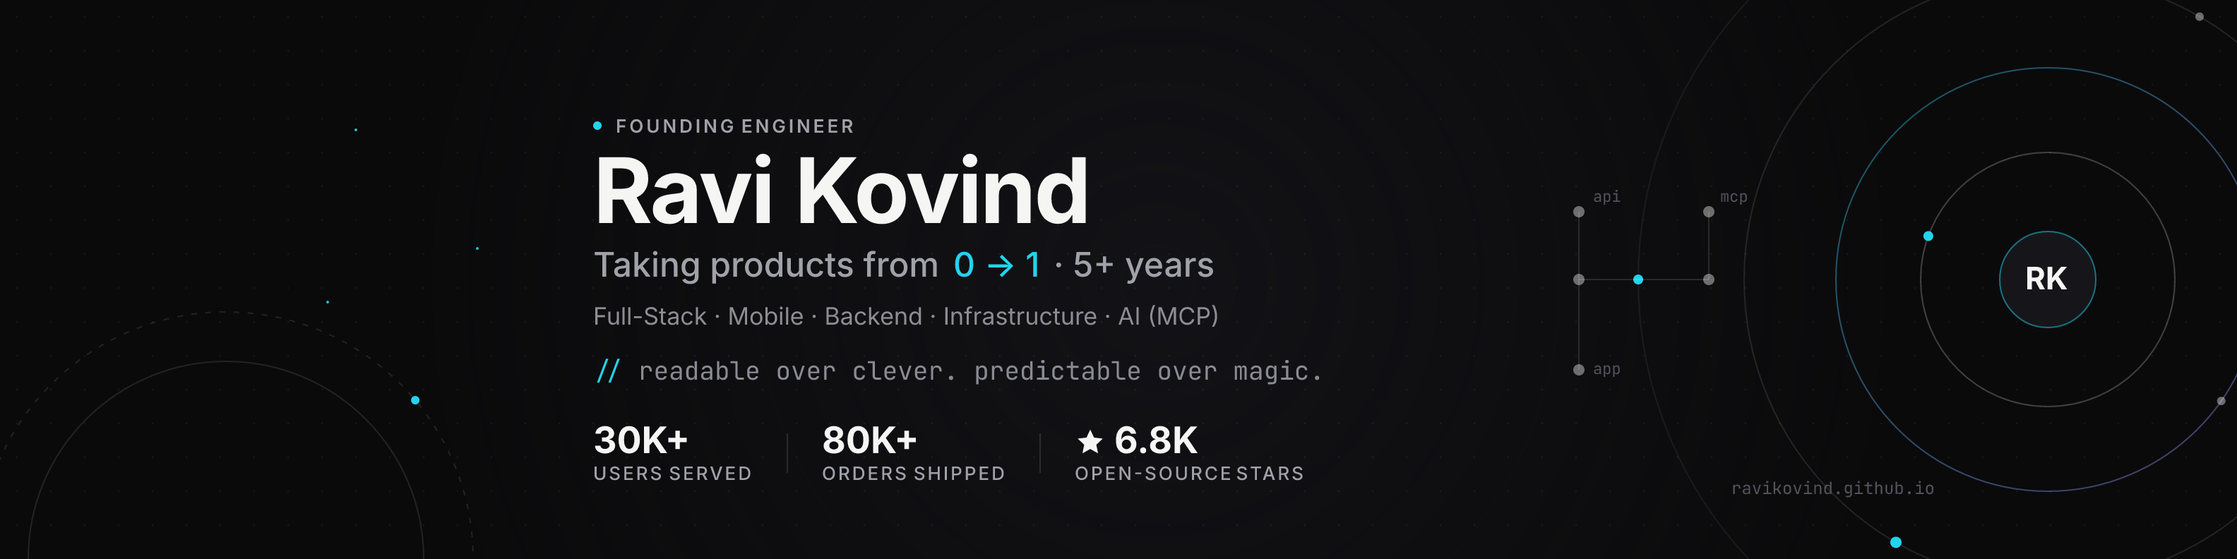
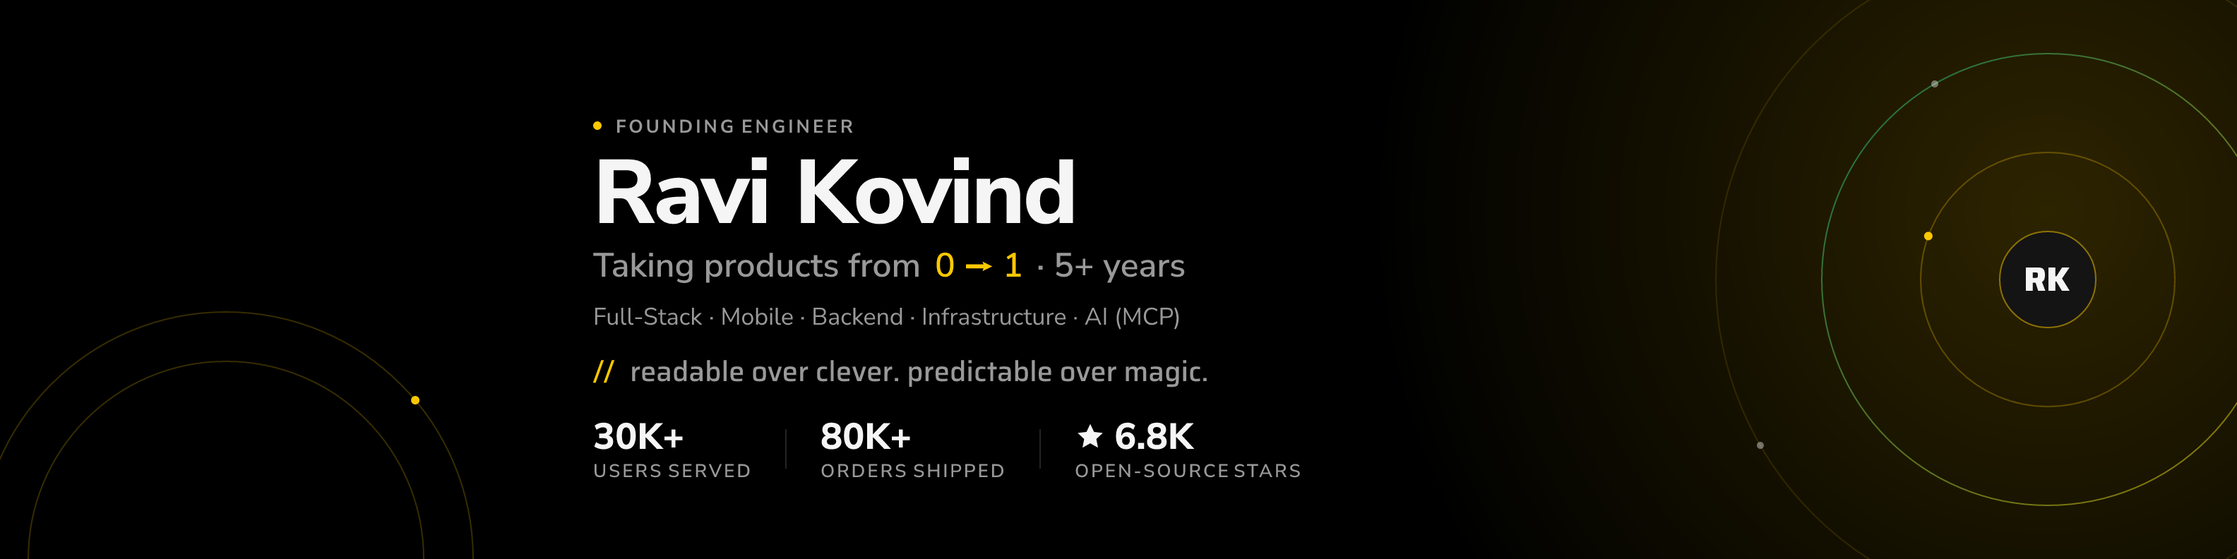
design(examples): ravikovind cover rev 2 — Nunito Sans + Saira, black + yellow
Update plan.md (revision 2) and regenerate: fonts Nunito Sans + Saira (mono
role); Open Notifier's pure-black look with the accent moved green -> yellow
(#FAC800), green kept only as the single gradient ring's start; removed the
unclear elements (node graph + labels, accent pixels, dot grid, footer tag,
dashed ring) and simplified the orbit. QA re-run with measured contrast and
text extents; build-notes.md updated.

diff --git a/examples/ravikovind/plan.md b/examples/ravikovind/plan.md
@@ -2,6 +2,8 @@
 
 > **For the executing agent:** Follow this plan top to bottom. Every decision about content, layout, colour and type is already made below. Do not invent new copy, stats, logos or claims. If something is ambiguous, pick the more minimal option.
 
+**Revision 2** — fonts changed to Nunito Sans + Saira; palette changed to the Open Notifier look (pure black, one accent) with the accent moved from green to yellow; unclear decorative elements removed (see §5.4).
+
 ---
 
 ## 1. Goal
@@ -12,7 +14,7 @@ Produce a clean, premium, developer-flavoured LinkedIn banner that tells a recru
 2. **What:** takes products from 0 → 1 across Full-Stack, Mobile, Backend, Infrastructure (and AI/MCP)
 3. **Why trust him:** proof numbers + engineering philosophy
 
-Tone: calm, confident, engineered. Not flashy, no stock "hacker" imagery, no neon matrix rain.
+Tone: calm, confident, engineered. Not flashy, no stock "hacker" imagery, no neon matrix rain. **Every element must have an obvious purpose** — if a viewer would ask "what is that?", it does not belong.
 
 ---
 
@@ -32,7 +34,7 @@ Tone: calm, confident, engineered. Not flashy, no stock "hacker" imagery, no neo
 | Core stack             | Flutter, Dart, Node.js, TypeScript, Python, Next.js, MongoDB, PostgreSQL, AWS, GCP, Docker |
 | AI work                | MCP client engine (MCPVave), Open Notifier (MCP push)                                      |
 | Handle / site          | ravikovind.github.io · @ravi_kovind                                                        |
-| Brand colour hint      | site theme colour is `#000000` (black), logo mark "RK"                                     |
+| Brand mark             | "RK" monogram (text)                                                                       |
 
 Do **not** include phone number or email on the banner.
 
@@ -41,7 +43,7 @@ Do **not** include phone number or email on the banner.
 ## 3. Canvas spec
 
 - **Size:** `1584 × 396 px` (LinkedIn standard, 4:1). Also export a `3168 × 792 px` @2x version.
-- **Format:** PNG (primary), plus JPG at quality 92 as a fallback. Keep file < 8 MB.
+- **Format:** PNG (snap-x outputs PNG). Keep file < 8 MB.
 - **Colour space:** sRGB.
 
 ### 3.1 Danger zones (must stay empty of text / important content)
@@ -50,7 +52,7 @@ LinkedIn overlays the profile photo and crops on mobile. Treat these as hard rul
 
 | Zone                                | Coordinates (on 1584×396)                                                             | Rule                                                   |
 | ----------------------------------- | ------------------------------------------------------------------------------------- | ------------------------------------------------------ |
-| **Profile-photo overlap (desktop)** | Circle centred ≈ `(160, 396)`, radius ≈ `115 px` → affects box `x: 0–320, y: 250–396` | No text, no logos. Decorative only (see ring in §5.2). |
+| **Profile-photo overlap (desktop)** | Circle centred ≈ `(160, 396)`, radius ≈ `115 px` → affects box `x: 0–320, y: 250–396` | No text, no logos. Decorative only (see rings in §5.2). |
 | **Mobile side crop**                | ~`x: 0–200` and `x: 1384–1584` may be cut                                             | Nothing essential here.                                |
 | **Top edge**                        | `y: 0–30`                                                                             | Keep clear (UI chrome on some clients).                |
 | **Bottom edge**                     | `y: 366–396`                                                                          | Keep clear.                                            |
@@ -63,36 +65,36 @@ LinkedIn overlays the profile photo and crops on mobile. Treat these as hard rul
 
 ## 4. Style direction
 
-**Name:** "Quiet Systems" — dark, minimal, blueprint-precise, with orbit/circle geometry hinting at connected systems (customers ↔ stores ↔ riders, MCP clients ↔ servers).
+**Name:** "Quiet Systems, Yellow" — the Open Notifier look: pure black, one confident accent, generous empty space. Orbit/circle geometry hints at connected systems (customers ↔ stores ↔ riders, MCP clients ↔ servers).
 
-### 4.1 Colour palette
+### 4.1 Colour palette (Open Notifier's structure, accent moved green → yellow)
 
-| Role                 | Hex                      | Use                                                     |
-| -------------------- | ------------------------ | ------------------------------------------------------- |
-| Background base      | `#0A0A0B`                | Main fill (near-black, echoes site `#000`)              |
-| Background lift      | `#121216`                | Subtle radial glow behind text                          |
-| Grid / hairlines     | `#FFFFFF` @ 5–7% opacity | Dot grid, rings                                         |
-| Primary text         | `#F5F5F4`                | Name                                                    |
-| Secondary text       | `#A1A1AA`                | Title line, stats labels                                |
-| Accent               | `#22D3EE` (cyan)         | Single accent: small dots, one keyword, ring highlights |
-| Accent 2 (sparingly) | `#A78BFA` (soft violet)  | Only in the gradient of the large ring, max 1 use       |
+| Role                 | Hex                       | Use                                                          |
+| -------------------- | ------------------------- | ------------------------------------------------------------ |
+| Background           | `#000000`                 | Main fill (pure black, like open-notifier.io)                |
+| Card / core fill     | `#141414`                 | The RK core disc                                             |
+| Glow                 | `#FAC800` @ 18% → 0       | One soft radial glow behind the orbit (top-right), like open-notifier's OG |
+| Primary text         | `#F5F5F5`                 | Name, stat numbers                                           |
+| Secondary text       | `#FFFFFF` @ 60% (≈`#999`) | Title line, scope line, stat labels, philosophy              |
+| **Accent (yellow)**  | `#FAC800`                 | The single accent: eyebrow dot, `0 → 1`, `//`, ring highlights, one orbit node |
+| Accent 2 (sparingly) | `#10B981` (green)         | **Only** as the start of the one gradient ring (`#10B981 → #FAC800`) — the nod to the old green |
+| Hairlines            | `#FAC800` @ 25–28%        | Rings, dividers (accent-tinted, like open-notifier's green borders) |
 
-Rule: **one accent colour dominates**. No rainbow, no more than 2 accent uses in text.
+Rule: **yellow is the only accent.** Green appears once (the gradient ring). No rainbow; at most 3 accent uses in text.
 
 ### 4.2 Typography
 
-- **Name:** `Inter` (or `Geist`) — weight 700, 64 px, letter-spacing −1.5 px
-- **Title line:** `Inter` 500, 24 px, secondary colour
-- **Philosophy / code-ish line:** `JetBrains Mono` 400, 18 px
-- **Stats numbers:** `Inter` 700, 26 px; labels `Inter` 500, 13 px, uppercase, letter-spacing +1.5 px
-
-Load from Google Fonts. Fallback: `system-ui, -apple-system, Segoe UI, sans-serif` and `ui-monospace, Menlo, monospace`.
+- **Primary font: Nunito Sans** — all headings and body.
+  - Name: 800, 64 px, letter-spacing −1.5 px
+  - Title line: 600, 24 px, secondary colour
+  - Scope line: 400, 17 px, secondary colour
+  - Stats numbers: 800, 26 px; labels 600, 13 px, uppercase, letter-spacing +1.5 px
+- **Mono role font: Saira** — used where the plan previously used a monospace: the philosophy line (Saira 500, 20 px) and the `RK` monogram (Saira 800, 24 px). (Saira is a squared display face, not a true monospace — this is a deliberate style choice.)
+- Load both from Google Fonts (`FONTS` export: Nunito Sans 400/600/700/800, Saira 500/800). Check that neither falls back.
 
 ### 4.3 Texture
 
-- Full-canvas **dot grid**: 24 px spacing, 1.2 px dots, white @ 6% opacity.
-- Soft **radial glow** `#121216 → transparent`, centred ≈ `(820, 200)`, radius 520 px, behind the text block.
-- Optional very faint noise/grain (2–3%) to avoid banding. No photos.
+- **No dot grid, no noise.** Flat black plus a single soft yellow glow, centred ≈ `(1450, 150)`, radius ≈ 520 px, behind the orbit.
 
 ---
 
@@ -101,119 +103,111 @@ Load from Google Fonts. Fallback: `system-ui, -apple-system, Segoe UI, sans-seri
 ```
  0                320  380                                   1110        1384      1584
  +-----------------+---+--------------------------------------+-----------+----------+
- |  dot grid       |   |  RAVI KOVIND                          |           |  ◯ big   |
- |                 |   |  Founding Engineer · 0 → 1 products   |   node    |  orbit   |
- |                 |   |  Full-Stack · Mobile · Backend · Infra|   graph   |  rings   |
- |                 |   |  // readable over clever ...          |           |          |
- |   ( ring around |   |  30K+ USERS  80K+ ORDERS  ★6.8K OSS   |           |          |
- |   profile pic ) |   |                                       |           |          |
+ |                 |   |  ● FOUNDING ENGINEER                  |           |  ◯ orbit |
+ |                 |   |  Ravi Kovind                          |  (empty,  |  rings   |
+ |                 |   |  Taking products from 0 → 1 · 5+ yrs |  calm)    |  + RK    |
+ |   ( ring around |   |  Full-Stack · Mobile · Backend · ...  |           |          |
+ |   profile pic ) |   |  // readable over clever ...          |           |          |
+ |                 |   |  30K+ USERS   80K+ ORDERS   ★6.8K OSS |           |          |
  +-----------------+---+--------------------------------------+-----------+----------+
 ```
 
 ### 5.1 Text block (left-aligned, starts at `x = 420`)
 
-| Line       | y (baseline) | Content                                                     | Style                                                   |
-| ---------- | ------------ | ----------------------------------------------------------- | ------------------------------------------------------- |
-| Eyebrow    | 92           | `● FOUNDING ENGINEER` — dot is accent cyan                  | Inter 600, 13 px, uppercase, +2 px tracking, secondary  |
-| Name       | 158          | `Ravi Kovind`                                               | Inter 700, 64 px, primary                               |
-| Title      | 196          | `Taking products from 0 → 1 · 5+ years`                     | Inter 500, 24 px, secondary; the `0 → 1` in accent cyan |
-| Scope      | 230          | `Full-Stack · Mobile · Backend · Infrastructure · AI (MCP)` | Inter 400, 17 px, secondary @ 80%                       |
-| Philosophy | 270          | `// readable over clever. predictable over magic.`          | JetBrains Mono 18 px, `//` in accent, rest `#71717A`    |
-| Stats row  | 322          | three stat pairs, 48 px gap between groups                  | see below                                               |
+| Line       | y (baseline) | Content                                                     | Style                                                          |
+| ---------- | ------------ | ----------------------------------------------------------- | -------------------------------------------------------------- |
+| Eyebrow    | 92           | `● FOUNDING ENGINEER` — dot is accent yellow                | Nunito Sans 700, 13 px, uppercase, +2 px tracking, secondary   |
+| Name       | 158          | `Ravi Kovind`                                               | Nunito Sans 800, 64 px, primary                                |
+| Title      | 196          | `Taking products from 0 → 1 · 5+ years`                     | Nunito Sans 600, 24 px, secondary; the `0 → 1` in accent yellow |
+| Scope      | 230          | `Full-Stack · Mobile · Backend · Infrastructure · AI (MCP)` | Nunito Sans 400, 17 px, secondary                              |
+| Philosophy | 270          | `// readable over clever. predictable over magic.`          | Saira 500, 20 px, `//` in accent yellow, rest secondary        |
+| Stats row  | 322          | three stacked stat pairs (number over label)                | see below                                                      |
 
-**Stats row** (number on top, label below — or inline `number LABEL`):
+**Stats row** (number on top, label below):
 
 - `30K+` USERS SERVED
 - `80K+` ORDERS SHIPPED
-- `★ 6.8K` OPEN-SOURCE STARS
+- `★ 6.8K` OPEN-SOURCE STARS (the star is drawn as a shape, not a font glyph)
 
-Separate groups with a thin vertical hairline (1 px, white @ 12%, 28 px tall).
+Separate groups with a thin vertical hairline (1 px, white @ 14%, 28 px tall, 24 px either side).
 
 Keep the whole text block within `x ≤ 1080`.
 
 ### 5.2 Circle / ring elements (the "circles in particular areas")
 
-1. **Profile-photo echo ring (bottom-left)**
+1. **Profile-photo echo ring (bottom-left)** — purpose: frames the profile photo so the banner feels designed _around_ it.
    - Centre `(160, 396)` — same as LinkedIn avatar.
-   - Two concentric rings: radius `140 px` and `175 px`, stroke 1 px, white @ 10%.
-   - Outer ring is dashed (`4 6`).
-   - One small accent dot (6 px, cyan) sitting on the 175 px ring at ~−40° (upper-right of the avatar), as if orbiting.
-   - Purpose: frames the profile photo so the banner feels designed _around_ it.
+   - Two concentric **solid** rings: radius `140 px` and `175 px`, stroke 1 px, accent yellow @ 22%.
+   - One small accent dot (6 px, yellow) on the 175 px ring at ~−40° (upper-right of the avatar), as if orbiting.
 
-2. **Big orbit system (right side)**
+2. **Orbit system (right side)** — purpose: the "connected systems" motif and the home of the `RK` monogram.
    - Centre `(1450, 198)`, partially bleeding off the right edge.
-   - Rings at radius `90`, `150`, `215`, `290` px, stroke 1 px.
-   - Ring opacity fades outward: 22%, 15%, 10%, 6%.
-   - The `150 px` ring uses a conic/linear gradient stroke `#22D3EE → #A78BFA` at 40% opacity (the only violet use).
-   - Place 4–5 small nodes (5–8 px dots) on the rings. 1–2 cyan, rest white @ 40%.
-   - Inner core: a filled circle radius 34 px, `#16161A`, with a 1 px cyan border @ 50%, containing the **`RK`** monogram in Inter 700, 22 px, primary colour.
+   - **Three** rings at radius `90`, `160`, `235` px, stroke 1 px, opacity fading outward: 28%, 20%, 12% (accent-tinted).
+   - The `160 px` ring uses a gradient stroke `#10B981 → #FAC800` at 55% opacity (the only green).
+   - **Three** small nodes on the rings: one accent yellow (6 px), two white @ 40% (5 px).
+   - Inner core: a filled circle radius 34 px, `#141414`, 1 px yellow border @ 50%, containing the **`RK`** monogram (Saira 800, 24 px, primary colour).
 
-3. **Node graph bridge (between text and orbit)**
-   - Region `x: 1110–1330, y: 110–290`.
-   - 5–6 nodes (small circles, 4–6 px) connected by 1 px straight or 90°-elbow lines, white @ 12%.
-   - Optionally label 3 nodes with tiny mono text (11 px, `#52525B`): `app`, `api`, `mcp`. No other labels.
-   - One connection line from this graph flows into the big orbit's outer ring — ties the composition together.
+### 5.3 Empty space is intentional
 
-4. **Tiny accent pixels** — at most 3 random 2 px cyan dots scattered in empty dot-grid areas (top-left quadrant, not in danger zones) for life.
-
-### 5.3 Optional small footer tag
-
-Bottom-right at `(1370, 350)`, right-aligned, only if it doesn't collide with rings:
-`ravikovind.github.io` — JetBrains Mono 12 px, `#52525B`.
-Skip it if it looks cluttered.
+The area between the text block and the orbit (`x: 1080–1215`) stays empty. Do not fill it.
 
 ### 5.4 Things **not** to include
 
-- No photo of Ravi (the LinkedIn avatar already covers that).
-- No tech-logo wall / brand logos (Flutter, AWS, etc.) — trademark noise and visual clutter.
-- No "Open to Work" text (LinkedIn has its own badge; banner should stay evergreen).
-- No phone, email, emojis beyond `★`, no generic laptop/code-screen stock imagery.
+Removed in revision 2 because they were unclear or had no obvious purpose:
+
+- ~~Node-graph bridge with `app` / `api` / `mcp` labels~~ — read as an unexplained diagram.
+- ~~Scattered 2 px accent pixels~~ — looked like dust/artefacts.
+- ~~Dot grid texture~~ — barely visible, added noise.
+- ~~`ravikovind.github.io` footer tag~~ — tiny, low-contrast, sat on the safe-area edge.
+- ~~Dashed outer ring~~ — replaced by a plain solid ring.
+
+Still excluded: no photo of Ravi (the LinkedIn avatar covers that); no tech-logo wall / brand logos (Flutter, AWS, etc.); no "Open to Work" text; no phone, email, emojis beyond the drawn `★`, no generic laptop/code-screen stock imagery.
 
 ---
 
-## 6. Build method (recommended)
+## 6. Build method
 
-Build as code for pixel-exact control, then rasterise.
+Build with snap-x (Satori → PNG). See `designs/`:
 
-1. Create `cover.html` with a single `<div id="cover">` of `1584×396`, all elements as inline SVG + positioned HTML text. Load fonts from Google Fonts.
-2. Set `body { margin:0; background:#0A0A0B; }`.
-3. Render with Playwright/Puppeteer:
-   - viewport `1584×396`, `deviceScaleFactor: 1` → `ravi-kovind-linkedin-cover.png`
-   - `deviceScaleFactor: 2` → `ravi-kovind-linkedin-cover@2x.png`
-   - Wait for `document.fonts.ready` before screenshot.
-4. Also export `.jpg` (quality 92) from the @1x PNG.
+- `_cover.mjs` — the whole composition as one builder (helper; skipped by `snap-x render` because of the `_` prefix)
+- `cover.mjs` → `ravi-kovind-linkedin-cover.png` (1584×396)
+- `cover-2x.mjs` → `ravi-kovind-linkedin-cover@2x.png` (3168×792, the same tree with `transform: scale(2)`)
+- `qa-overlay.mjs` → `qa-overlay.png` (danger zones drawn)
+- `qa-mobile.mjs` → `qa-mobile-crop.png` (centre 1184×396)
 
-**Alternative (image model):** only if coding is impossible. Generate background art only (grid + rings + glow, no text), then overlay text via code/Pillow. Never let an image model render the name or numbers.
+Regenerate: `npm run examples`. **Never let an image model render the name or numbers.**
 
 ---
 
 ## 7. QA checklist (agent must verify before finishing)
 
 - [ ] Dimensions exactly `1584×396` (and `3168×792` for @2x).
-- [ ] Draw a debug overlay: a 230 px-diameter circle at `(160, 396)` and shaded bands for `x<200` and `x>1384`. Confirm **no text** falls inside any of them. Remove overlay for final export.
+- [ ] QA overlay: a 230 px-diameter circle at `(160, 396)` and shaded bands for `x<200` and `x>1384`. Confirm **no text** falls inside any of them.
 - [ ] Name is the most prominent element; readable at 50% zoom.
-- [ ] Only one accent colour dominates; violet appears once.
-- [ ] All copy matches §2 exactly (spelling: "Ravi Kovind", "flutter_lucide").
-- [ ] Contrast: primary text vs background ≥ 7:1, secondary ≥ 4.5:1.
+- [ ] Yellow is the only accent; green appears once (the gradient ring).
+- [ ] Every element has an obvious purpose — nothing that needs explaining (§5.4 list is gone).
+- [ ] All copy matches §2 exactly (spelling: "Ravi Kovind").
+- [ ] Contrast: primary text vs background ≥ 7:1, secondary ≥ 4.5:1 (measure it).
 - [ ] Preview a mobile crop (centre `1184×396` region) — name + title still fully visible.
-- [ ] No font fallback visible (check Inter / JetBrains Mono actually loaded).
+- [ ] Fonts are Nunito Sans and Saira with no fallback visible; no blank-box glyphs.
 
 ---
 
 ## 8. Deliverables
 
 ```
-/output/
+examples/ravikovind/
   ravi-kovind-linkedin-cover.png       (1584×396)
   ravi-kovind-linkedin-cover@2x.png    (3168×792)
-  ravi-kovind-linkedin-cover.jpg       (1584×396, q92)
-  cover.html                           (source)
   qa-overlay.png                       (debug view with danger zones drawn)
+  qa-mobile-crop.png                   (1184×396 phone view)
+  designs/                             (source)
+  share-copy.txt, build-notes.md
 ```
 
 ---
 
 ## 9. Variations (only if asked for more than one)
 
-- **V2 – Light:** background `#FAFAF9`, text `#0A0A0B`, grid black @ 6%, same cyan accent darkened to `#0891B2`.
-- **V3 – AI-forward:** swap the stats row for `MCP · LLM infra · Flutter · Node.js` and relabel graph nodes `client`, `server`, `llm`.
+- **V2 – Light:** background `#FAFAF9`, text `#0A0A0B`, same layout; accent darkened to `#B45309` (amber) for contrast.
+- **V3 – AI-forward:** swap the stats row for `MCP · LLM infra · Flutter · Node.js`.

diff --git a/examples/ravikovind/build-notes.md b/examples/ravikovind/build-notes.md
@@ -1,28 +1,33 @@
-# Build notes — Ravi Kovind LinkedIn cover
+# Build notes — Ravi Kovind LinkedIn cover (revision 2)
 
-Built from [`plan.md`](plan.md) with snap-x. Source of truth for copy and layout is the plan; this file records how it was executed and what differed.
+Built from [`plan.md`](plan.md) with snap-x. The plan is the source of truth for copy, layout, colour and type; this file records how it was executed and what differed.
+
+## What changed in revision 2
+- **Fonts:** Nunito Sans (all text) + Saira (the "mono role": the `//` philosophy line and the `RK` monogram). Was Inter + JetBrains Mono.
+- **Palette:** the Open Notifier look — pure black, one accent — with the accent moved **green → yellow** (`#FAC800`, Open Notifier's own yellow). Green (`#10B981`) survives only as the start of the single gradient ring (green → yellow).
+- **Removed as unclear:** the node-graph bridge and its `app/api/mcp` labels, the scattered accent pixels, the dot grid, the footer URL tag and the dashed outer ring. Orbit simplified from 4 rings / 6 nodes to 3 rings / 3 nodes.
 
 ## How it was built
-- `designs/_cover.mjs` — the whole 1584×396 composition (dot grid, profile-echo rings, orbit system, node graph, text block) as one builder. The `_` prefix marks it as a helper, so `snap-x render` skips it and only renders the four entry files.
+- `designs/_cover.mjs` — the whole 1584×396 composition as one builder. The `_` prefix marks it as a helper, so `snap-x render` skips it and renders only the four entry files.
 - `designs/cover.mjs` → `ravi-kovind-linkedin-cover.png` (1584×396)
-- `designs/cover-2x.mjs` → `…@2x.png` (3168×792): the same vector tree with `transform: scale(2)` — equivalent to `deviceScaleFactor: 2`.
-- `designs/qa-overlay.mjs`, `designs/qa-mobile.mjs` — the QA views the plan asks for.
-- Fonts: Inter 400/500/600/700 and JetBrains Mono 400 (via `FONTS`); no fallback font was used.
+- `designs/cover-2x.mjs` → `…@2x.png` (3168×792): the same vector tree with `transform: scale(2)`, equivalent to `deviceScaleFactor: 2`.
+- `designs/qa-overlay.mjs`, `designs/qa-mobile.mjs` — the QA views.
 
-## Deviations from the plan (and why)
-1. **snap-x (Satori → PNG) instead of HTML + Playwright** (plan §6) — this is a snap-x example. No `cover.html`.
-2. **No `.jpg` export** — snap-x outputs PNG only. LinkedIn accepts PNG.
-3. **Philosophy line colour `#8B8B95` instead of `#71717A`** — `#71717A` measures 4.09:1 on `#0A0A0B`, which fails the plan's own QA rule (secondary text ≥ 4.5:1). `#8B8B95` is 5.87:1.
-4. **`★` and `●` are drawn as shapes** (inline SVG star, CSS circle) rather than font glyphs, so they can't fall back to a blank box.
-5. **Stats are stacked** (number over label) — the plan allows either, and stacked keeps the block within `x ≤ 1080`.
+## Deviations from the plan
+1. **snap-x (Satori → PNG)** rather than HTML + Playwright — this is a snap-x example.
+2. **No `.jpg`** — snap-x outputs PNG only; LinkedIn accepts PNG.
+3. **`★` and `●` are drawn shapes** (inline SVG star, CSS circle), not font glyphs, so they can never render as blank boxes.
+4. **Saira is not a true monospace** — used for the mono role by choice (per the plan).
+5. **Stats are stacked** (number over label) to keep the block within `x ≤ 1080`.
 
-## QA checklist (plan §7)
+## QA checklist (plan §7) — measured
 - [x] Dimensions exactly 1584×396 and 3168×792
-- [x] No text inside the danger zones — see `qa-overlay.png` (avatar circle, x<200, x>1384, top/bottom edges). The optional footer tag sits at the plan's spec'd position at the very bottom of the safe area.
+- [x] No text in the danger zones (`qa-overlay.png`: avatar circle Ø230 at 160,396; x<200; x>1384; top/bottom edges). Text stays inside the safe area — the stats row measures y 299 → 337 (limit 346)
 - [x] Name is the most prominent element; legible at 50% zoom
-- [x] One accent (cyan) dominates; violet appears once (the 150 px ring gradient)
-- [x] Copy matches plan §2 exactly ("Ravi Kovind", "0 → 1", "6.8K")
-- [x] Contrast: primary 18.1:1, secondary 7.7:1, scope line 6.0:1, philosophy 5.9:1. (Decorative node labels use the plan's `#52525B`, 2.6:1 — ornamental only.)
-- [x] Mobile crop keeps name + title fully visible — `qa-mobile-crop.png`
-- [x] No font fallback — Inter and JetBrains Mono load from Google Fonts
-- [x] No phone/email, no photo, no tech logos, no "Open to Work"
+- [x] Yellow is the only accent; green appears once (the gradient ring)
+- [x] Every element has an obvious purpose — nothing left that needs explaining
+- [x] Copy matches plan §2 ("Ravi Kovind", "0 → 1", "6.8K")
+- [x] Contrast on `#000`: primary `#F5F5F5` 19.3:1 · secondary white@60% (`#999`) 7.4:1 · accent `#FAC800` 13.3:1
+- [x] Mobile crop keeps name, title and stats fully visible — `qa-mobile-crop.png`
+- [x] Nunito Sans and Saira load (no fallback); no blank-box glyphs
+- [x] No phone/email, photo, tech logos or "Open to Work"
